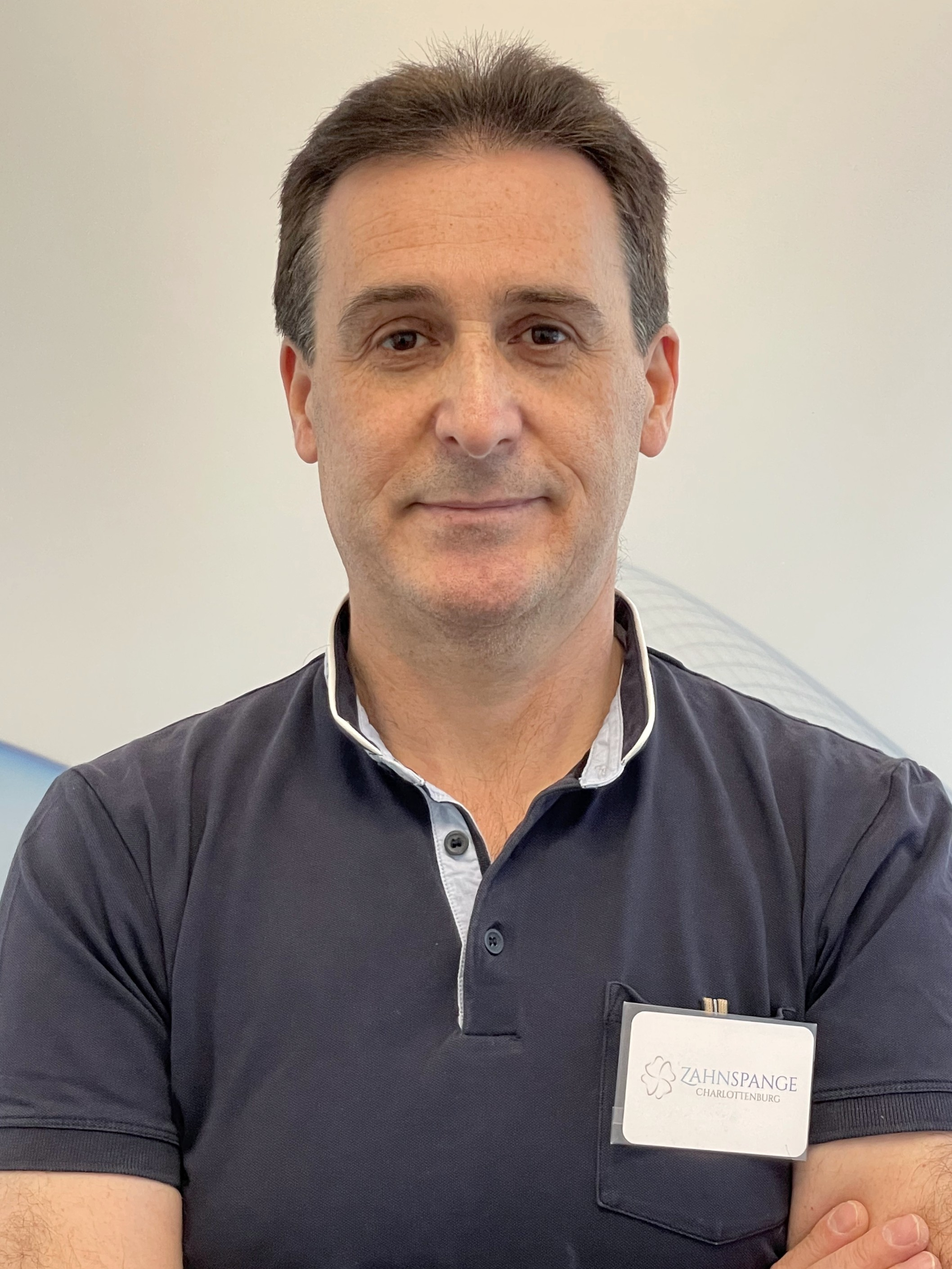
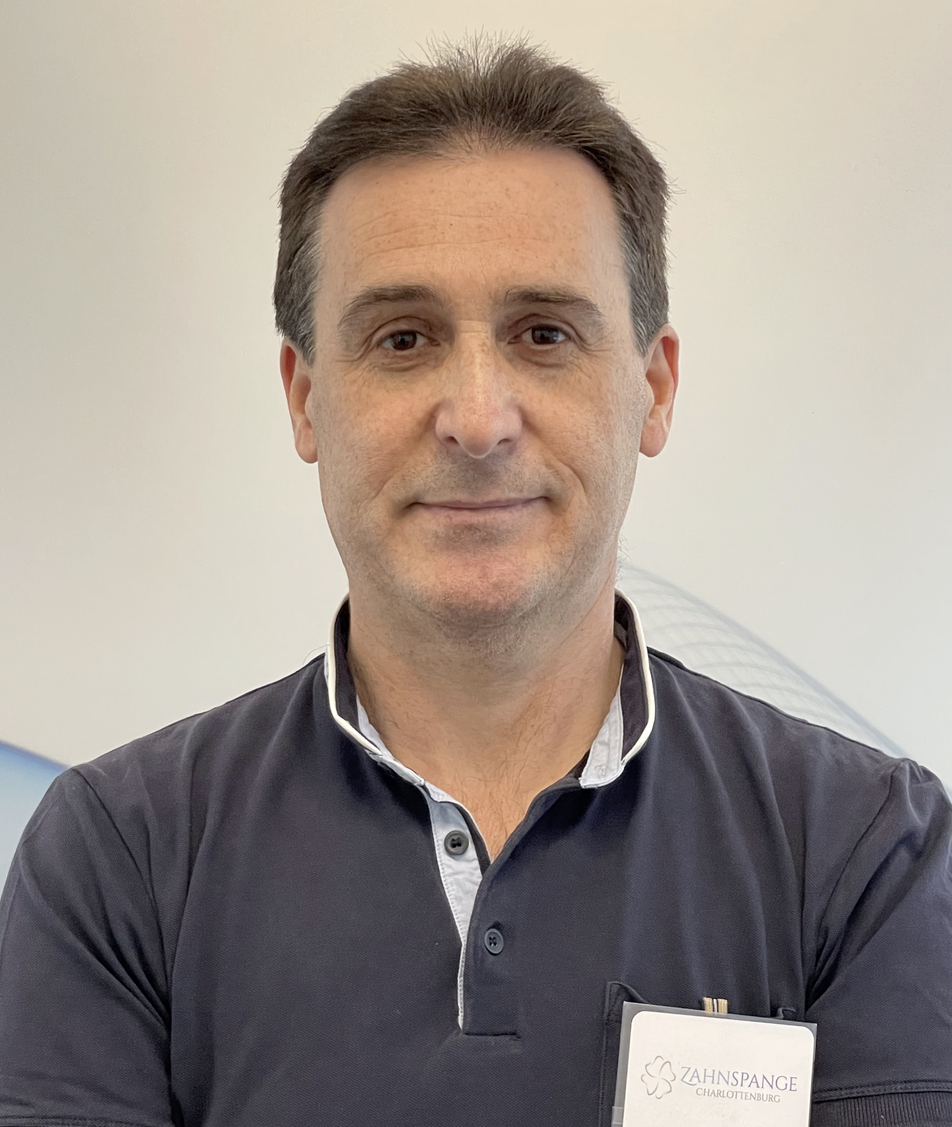
adding the last 2 nurses imgs and fix the size on the mobile

diff --git a/src/styles/components/NurseCard.scss b/src/styles/components/NurseCard.scss
@@ -98,7 +98,7 @@
       align-items: center;
       justify-content: center;
       .nurse-img {
-        width: 325px;
+        width: 355px;
         height: 425px;
         border-radius: 24px;
         box-shadow: rgba(0, 0, 0, 0.06) 0px 2px 4px 0px inset;
